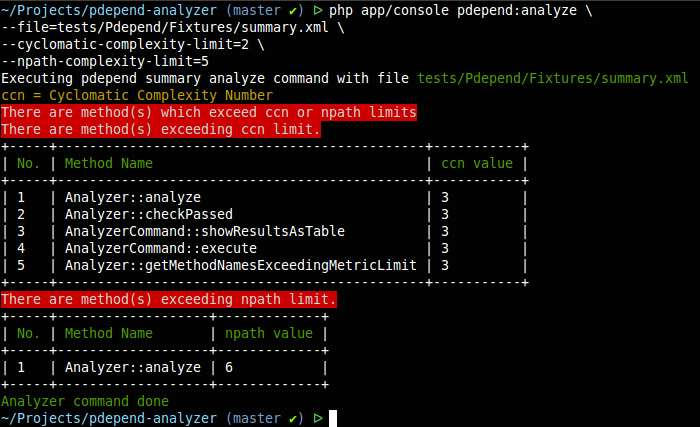
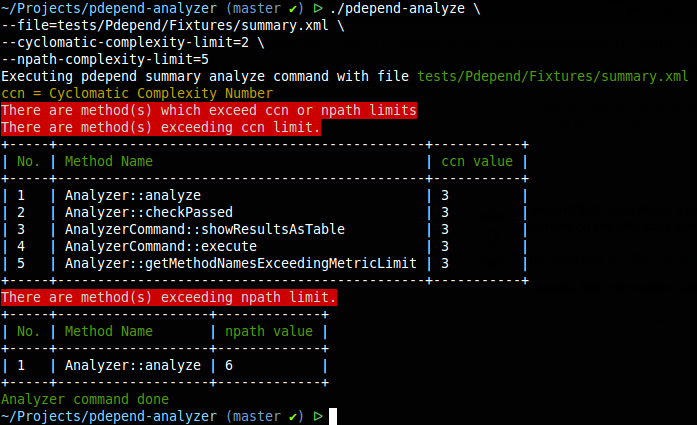
Changed docs

diff --git a/README.md b/README.md
@@ -40,7 +40,7 @@ in the following ways:
 
 ```shell
 
- ᐅ php app/console pdepend:analyze --file=tests/Pdepend/Fixtures/summary.xml
+ ᐅ ./pdepend-analyze --file=tests/Pdepend/Fixtures/summary.xml
 
 ```
 
@@ -48,7 +48,7 @@ in the following ways:
 
 ```shell
 
- ᐅ php app/console pdepend:analyze --file=tests/Pdepend/Fixtures/summary.xml  --cyclomatic-complexity-limit=2 --npath-complexity-limit=5
+ ᐅ ./pdepend-analyze --file=tests/Pdepend/Fixtures/summary.xml  --cyclomatic-complexity-limit=2 --npath-complexity-limit=5
 
 ```
 
